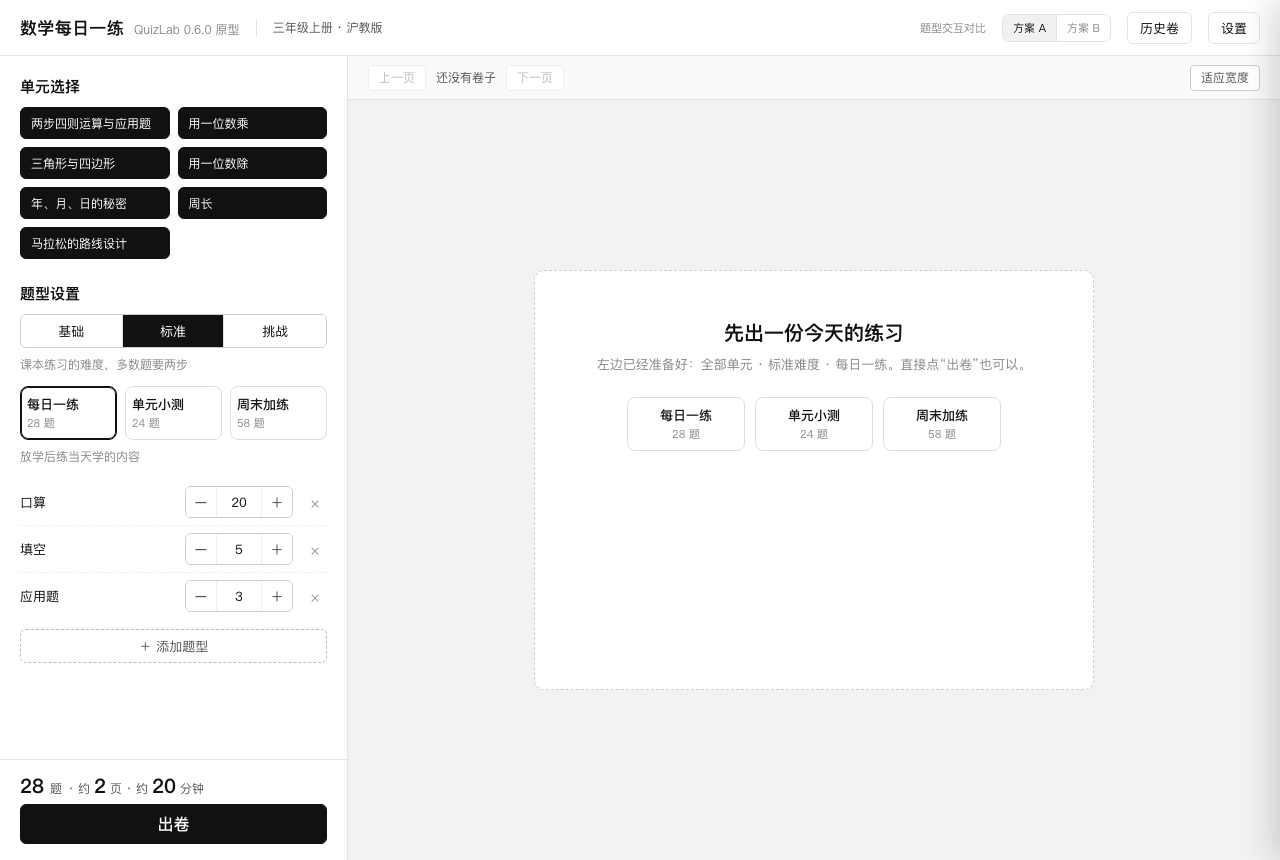
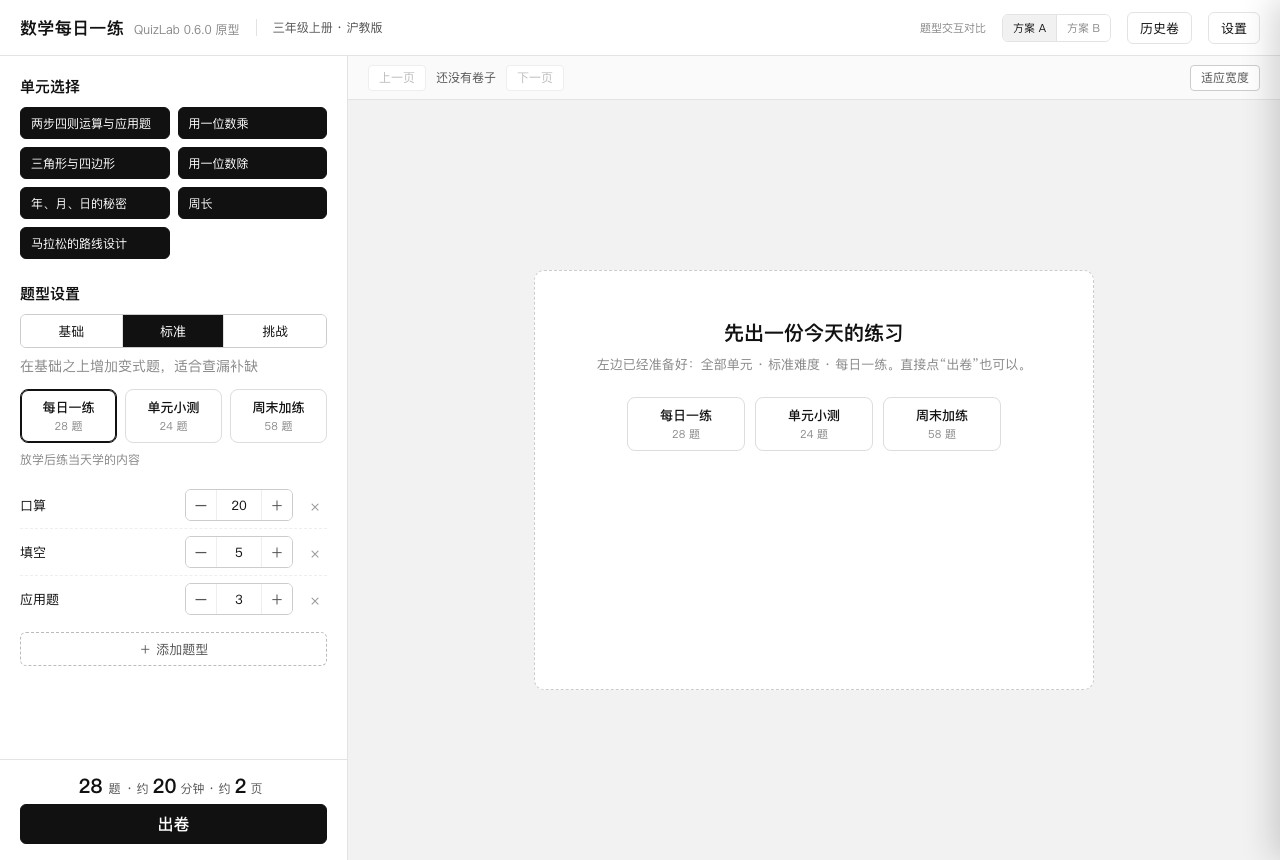
docs: 0.6.0 原型难度文案定稿与排版微调
三档说明原样替换并保持单行；套餐卡文字居中，摘要居中且页数移到最后。

diff --git a/docs/ui-prototype-0.6.0/index.html b/docs/ui-prototype-0.6.0/index.html
@@ -68,11 +68,12 @@
       .seg button { height: 32px; font-size: 13px; background: #fff; border: 0; border-right: 1px solid #e0e0e0; }
       .seg button:last-child { border-right: 0; }
       .seg button[aria-pressed='true'] { background: var(--ink); color: #fff; }
-      .help { margin: 8px 0 0; font-size: 12px; line-height: 1.5; color: var(--ink-3); }
+      .help { margin: 8px 0 0; font-size: 14px; line-height: 1.5; color: var(--ink-3); white-space: nowrap; }
 
       .presets { display: grid; grid-template-columns: repeat(3, 1fr); gap: 8px; margin-top: 12px; }
       .preset {
-        padding: 8px 6px; border: 1px solid #ddd; border-radius: 8px; background: #fff; text-align: left;
+        display: flex; flex-direction: column; justify-content: center; align-items: center;
+        min-height: 52px; padding: 8px 6px; border: 1px solid #ddd; border-radius: 8px; background: #fff; text-align: center;
       }
       .preset b { display: block; font-size: 13px; font-weight: 500; }
       .preset small { display: block; margin-top: 2px; font-size: 11px; color: var(--ink-3); }
@@ -171,9 +172,9 @@
       .warnline[hidden] { display: none; }
 
       .side-foot { flex: none; border-top: 1px solid var(--line); padding: 12px 20px 16px; background: #fff; }
-      .totals { display: flex; align-items: baseline; gap: 6px; font-size: 12px; color: var(--ink-2); margin-bottom: 4px; }
+      .totals { display: flex; align-items: baseline; justify-content: center; gap: 6px; font-size: 12px; color: var(--ink-2); margin-bottom: 4px; }
       .totals b { font-size: 20px; color: var(--ink); font-weight: 600; }
-      .totals span:last-child { margin-left: auto; color: var(--ink-3); }
+      .totals span:last-child { color: var(--ink-3); }
       .primary {
         width: 100%; height: 40px; border: 1px solid var(--ink); border-radius: 6px; background: var(--ink);
         color: #fff; font-size: 16px; font-weight: 500;
@@ -341,7 +342,7 @@
               <button data-level="L2">标准</button>
               <button data-level="L3">挑战</button>
             </div>
-            <p class="help" id="levelHelp">课本练习的难度，多数题要两步</p>
+            <p class="help" id="levelHelp">在基础之上增加变式题，适合查漏补缺</p>
 
             <div class="presets" id="presets"></div>
             <p class="preset-desc" id="presetDesc"></p>
@@ -358,7 +359,7 @@
           <p class="warnline" id="capacityHint" hidden></p>
           <div class="totals">
             <b id="total">28</b><span>题</span>
-            <span>· 约 <b id="pages">2</b> 页 · 约 <b id="minutes">20</b> 分钟</span>
+            <span>· 约 <b id="minutes">20</b> 分钟 · 约 <b id="pages">2</b> 页</span>
             <span id="scopeNote"></span>
           </div>
           <button class="primary" id="buildBtn">出卷</button>
@@ -515,9 +516,9 @@
         { id: 'weekend', name: '周末加练', desc: '周末加量，挑难一点的', level: 'L3', values: { kousuan: 30, chushi: 8, tuoshi: 6, tiankong: 8, word: 6 } },
       ]
       const LEVEL_HELP = {
-        L1: '对准课本例题，一步算完',
-        L2: '课本练习的难度，多数题要两步',
-        L3: '需要多绕一步，用来查漏',
+        L1: '覆盖课内核心知识点，适合日常随堂练习',
+        L2: '在基础之上增加变式题，适合查漏补缺',
+        L3: '综合性强、难度更高，适合学有余力的孩子',
       }
 
       const params = new URLSearchParams(location.search)
@@ -1181,6 +1182,8 @@
 
       // ---------------- 初始视图（供截图与演示） ----------------
       function applyInitialView() {
+        const initialLevel = params.get('level')
+        if (initialLevel && LEVEL_HELP[initialLevel]) state.level = initialLevel
         if (initialView === 'result') {
           state.built = true
           state.result = { count: total(), pages: roughPages(), minutes: minutes(), path: '文稿/数学练习/三上-每日一练-20261105.pdf', title: '全部单元 · 每日一练' }

diff --git a/docs/ui-design-0.6.0.md b/docs/ui-design-0.6.0.md
@@ -124,7 +124,7 @@
 | --- | --- | --- | --- | --- |
 | 年级与教材 | 只读文字 | 三年级上册 · 沪教版 | 固定 | 不出现下拉；无第二选项 |
 | 单元 | 多选 chip（两列） | **全部 7 个单元** | 至少 1 个 | 默认全选，保证一键出卷；不显示"范围：全部 N 个单元"汇总行 |
-| 难度 | 三段控件 | **标准** | 基础/标准/挑战 | 下方一句随档位切换：基础"对准课本例题，一步算完"；标准"课本练习的难度，多数题要两步"；挑战"需要多绕一步，用来查漏" |
+| 难度 | 三段控件 | **标准** | 基础/标准/挑战 | 下方 14px 一句随档位切换、一行不折行：基础"覆盖课内核心知识点，适合日常随堂练习"；标准"在基础之上增加变式题，适合查漏补缺"；挑战"综合性强、难度更高，适合学有余力的孩子" |
 | 题量套餐 | 3 张横排卡（标题+题量） | **每日一练** | 每日一练/单元小测/周末加练 | 点选=套用该套餐的难度、题型、题量；卡片下方一行说明随选中切换；任何手动增删题型或改题量即转为"自定义"，并显示"改自每日一练 · 恢复默认" |
 | 口算 | stepper `[−] 20 [+]` | 20 | 0–200 | 0 时行内显示"不出" |
 | 填空 | stepper | 5 | 0–200 | 同上；首次只在常用区出现 |
@@ -244,7 +244,7 @@
 
 | 位置 | 现在 | 改成 |
 | --- | --- | --- |
-| 难度 | L1/L2/L3 + 三行说明 | 基础 / 标准 / 挑战；下方一句随档位切换（基础"对准课本例题，一步算完"／标准"课本练习的难度，多数题要两步"／挑战"需要多绕一步，用来查漏"） |
+| 难度 | L1/L2/L3 + 三行说明 | 基础 / 标准 / 挑战；下方 14px 一句随档位切换、一行不折行（基础"覆盖课内核心知识点，适合日常随堂练习"／标准"在基础之上增加变式题，适合查漏补缺"／挑战"综合性强、难度更高，适合学有余力的孩子"） |
 | 年级 | 三年级上册（成品范围）＋"三下及后续年级已暂停" | 三年级上册 · 沪教版 |
 | 单元 | 只列三上能出题的 7 个单元 | 7 个单元 chip（默认全选），不显示范围汇总行 |
 | 题型来源 | 按题型自动出题 / 按规则出题 / 备用题库 | （不显示） |
